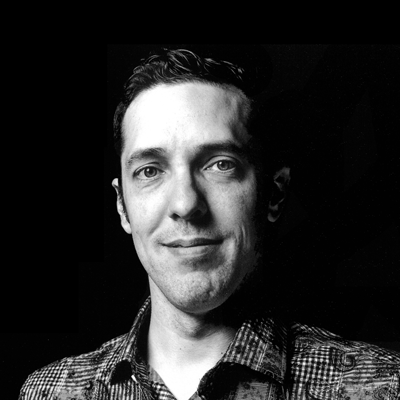
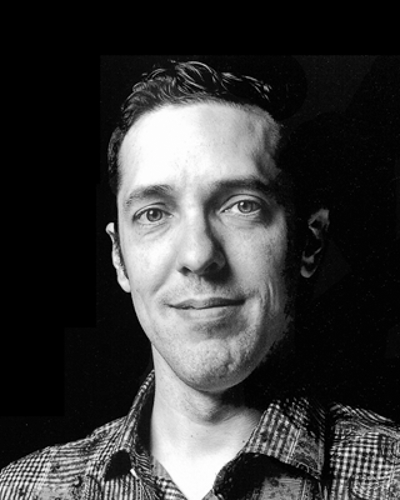
standardized images and updated bios where necessary to access

Changed region(s): [[0.0, 0.12, 1.0, 1.0], [0.75, 0.42, 0.84, 0.48], [0.75, 0.51, 0.81, 0.57]]

diff --git a/source/team/brad.md b/source/team/brad.md
@@ -1,6 +1,6 @@
 ---
 name: Brad Gibson
-image: brad.jpg
+image: brad.png
 social:
   - name: LinkedIn
     link: "https://www.linkedin.com/in/gibsonbrad"
@@ -12,13 +12,11 @@ social:
     link: "https://twitter.com/U007D"
     icon: fa-twitter
 ---
-Prior to founding Human Enginuity SPC, Brad co-founded LearnBIG, where he developed pioneering online e-Learning experiences that industry experts and customers alike referred to as “stunning”, “exceptional”, “effective” and “unique”. Brad served as LearnBig's CTO through its acquisition in May 2015.
+Prior to founding Human Enginuity SPC, Brad co-founded LearnBIG and served as its CTO, where he architected and developed pioneering online e-Learning experiences that industry experts and customers alike referred to as “stunning”, “exceptional”, “effective” and “unique”. Brad served as LearnBig's CTO through its successful acquisition in May 2015.
 
-As a software engineer, Brad began programming in BASIC, 6510 and later 68K assembly language. Then, after the demise of the dinosaurs, evolved to work in C, Modern C++, Javascript, C# and Rust.
+Brad began programming in BASIC, 6510 and later 68K assembly language. Then, *after* the demise of the dinosaurs, evolved to work in C, Modern C++, Javascript, C# and Rust.  Current projects include a stealth project developing a large-scale, real-time embedded systems product in Rust. Recent work includes co-developing and shipping a major financial payment service on top of the U.S. Federal Reserve banking system.
 
-Current projects include a systems project developing a large-scale, real-time embedded systems project in Rust. Recent projects include co-developing and shipping a major financial payment service on top of the U.S. Federal Reserve banking system.
-
-Brad previously spent time working for Microsoft Research leading a team responsible for developing educational games in collaboration with several major universities designed to teach children (with particular emphasis on girls) as young as five key technology-literacy skills such as algorithmic thinking. Brad successfully transferred the project from Research to a product team, where the re-imagined game went on to be awarded a nomination for “Outstanding Innovation In Gaming” and was one of two finalists for the “Family Game of the Year” in the Academy of Interactive Arts and Sciences’ 2016 DICE Awards.
+Prior to this, Brad worked at Microsoft Research leading the Kodu Game Lab initiative, developing a technology platform, curricula and collaborations with several major universities in the U.S., Canada and abroad.  The initiative was successful in achieving its goals, having been shown to have developed technology literacy, critical and algorithmic thinking skills in children as young as five, with a particular emphasis on girls.  Subsequently, Brad transferred the project to the Microsoft Xbox team, where a re-imagined and upgraded version of the game went on to be awarded a nomination for “Outstanding Innovation In Gaming” and was one of two finalists for the “Family Game of the Year” in the Academy of Interactive Arts and Sciences’ 2016 DICE Awards.
 
 Brad also led the team which shipped the world’s most popular graphics imaging engine. This engine has rendered the image pixels for the default Windows image viewer in every version of Windows since 2006.
 

diff --git a/source/team/josh.md b/source/team/josh.md
@@ -1,13 +1,13 @@
 ---
 name: Josh Vincent
-image: josh.jpg
+image: josh.png
 social:
   - name: LinkedIn
     link: "https://www.linkedin.com/in/joshvincent"
     icon: fa-linkedin
 ---
-Josh has been building software since his Computer Science days at university. He is a seasoned product manager, designer and entrepreneur. He spent almost a decade shipping products at Microsoft, followed by 3 startups in Silicon Valley. Most recently he worked with the rest of the Human Enginuity team shipping a major payments network for businesses and employees.
+Josh has been building software since his computer science days at university. He is a seasoned product manager, designer and entrepreneur. He spent almost a decade shipping products at Microsoft, followed by 3 startups in Silicon Valley. Most recently he worked with the rest of the Human Enginuity team shipping a major payments network for businesses and employees.
 
-Josh has lead user experience and product management teams and thrives ambiguous environments that require multi-facetted skill usage and development. He is a user focused product manager that has driven the shipment of over 20 internationally recognized products, including SaaS platforms, hardware and software. He has proven skills as a “full stack designer” having performed design functions (IA, UX/UI, research) at multiple companies. He did all the heavy lifting on the SaaS platform, Tronic.fm.
+Josh has lead user experience and product management teams and thrives in ambiguous environments that require multi-faceted skill usage and development. He is a user-focused product manager that has driven the shipment of over 20 internationally recognized products, including SaaS platforms, hardware and software. He has proven skills as a “full stack designer” having performed design functions (IA, UX/UI, research) at multiple companies. He did all the heavy lifting on the SaaS platform, Tronic.fm.
 
 Josh has a lot of experience in consumer software and services, shipping multiple versions of Zune, Bing for iOS, leading the OnLive product and design team as well as heading up product at SFX Entertainment. He co-founded and shipped the B2B EMS solution, Tronic.fm, focused on tools for the music industry, raising capitol, building a team of engineers, designing the platform from ground up and finding market fit. For fun, Josh likes endurance sports, music creation and performance, large art projects, reading and real estate.
